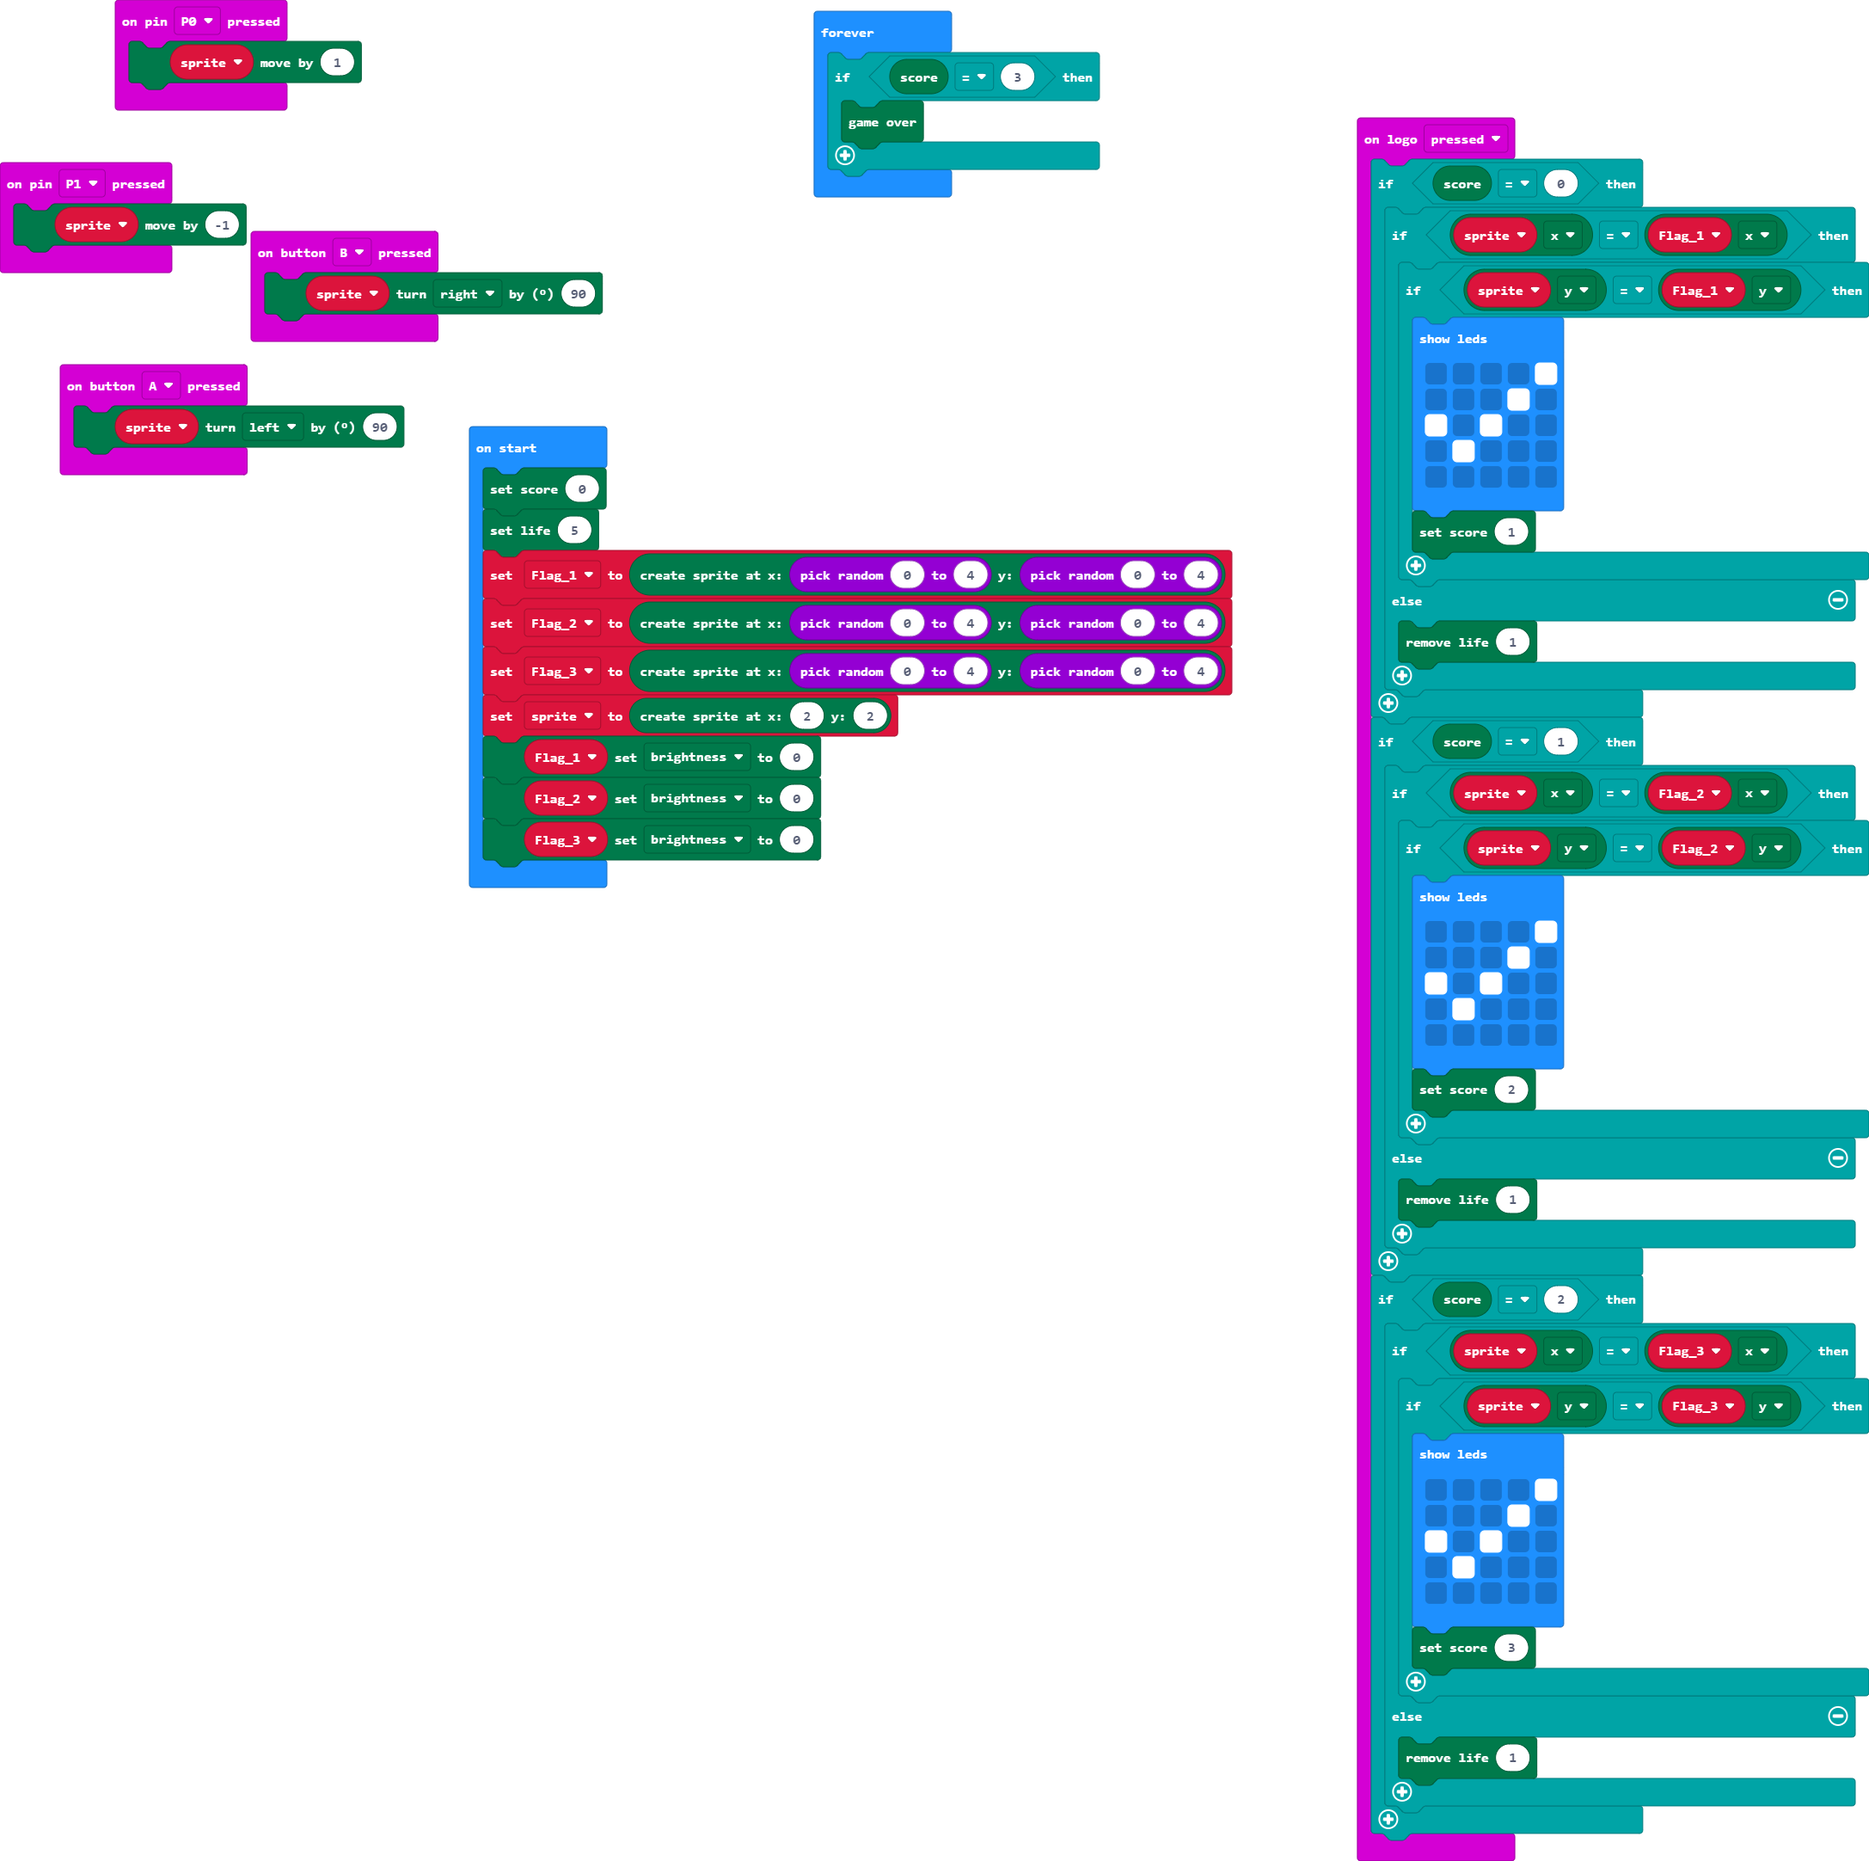
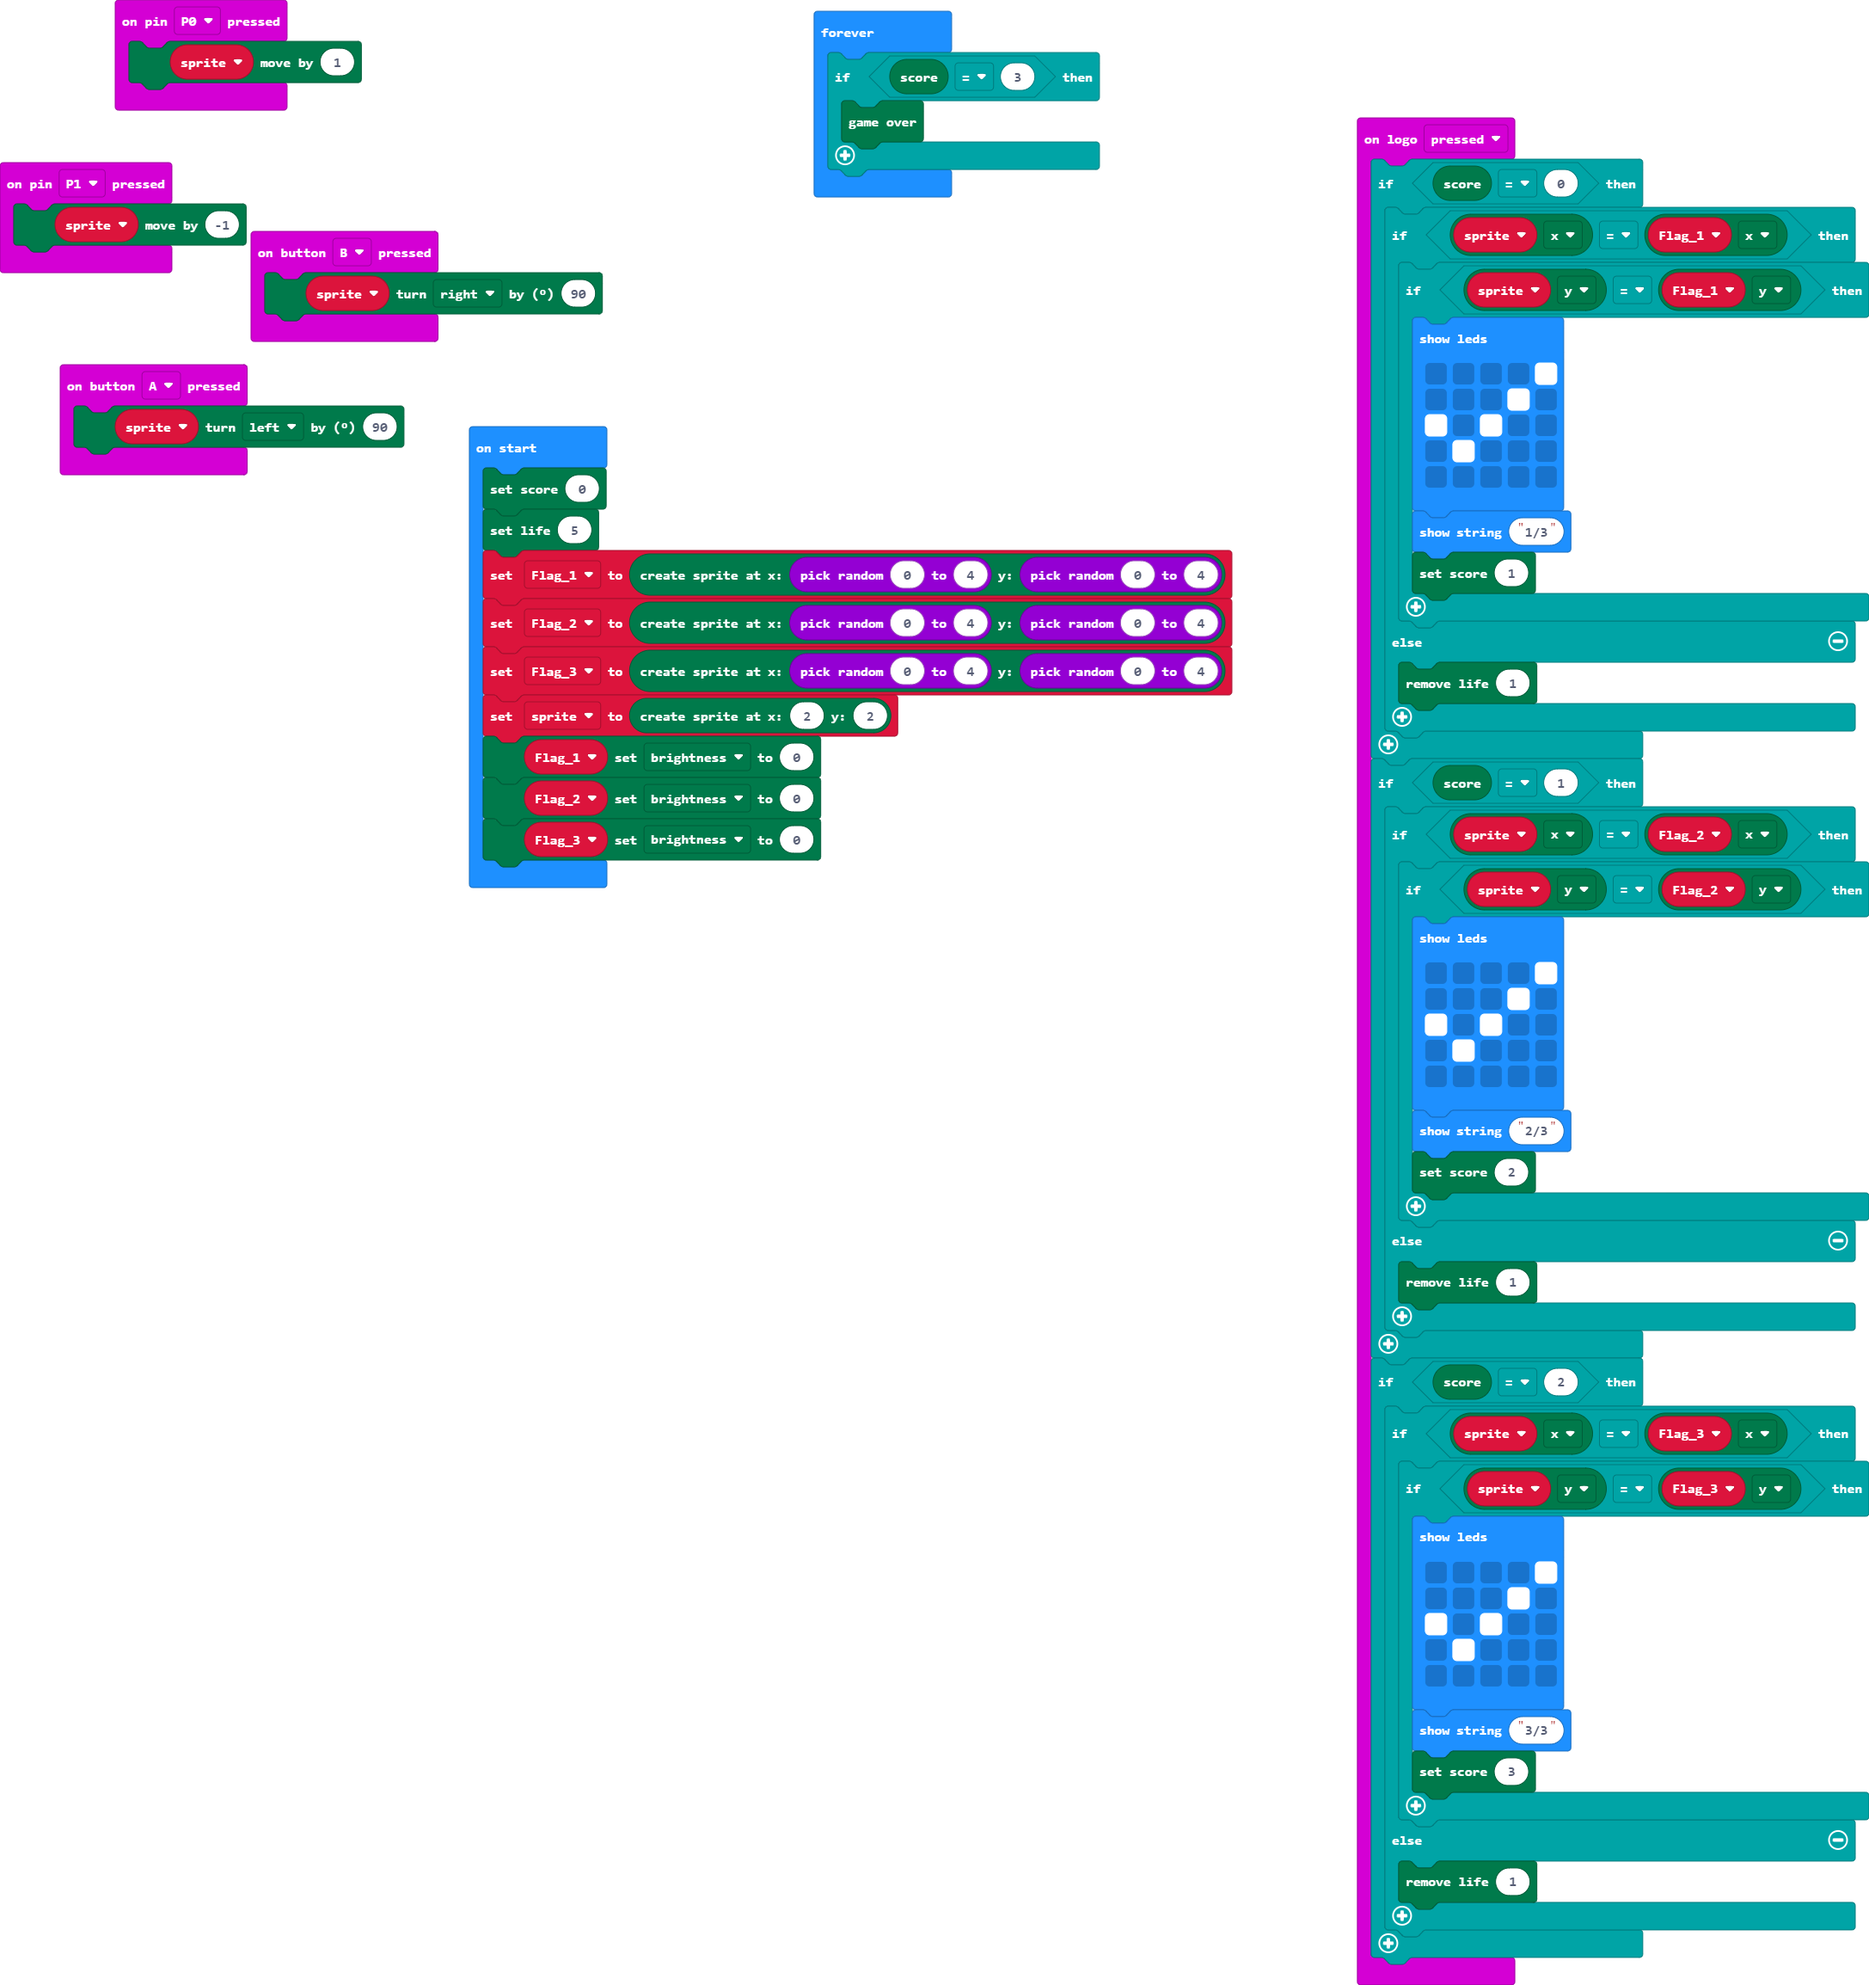
Update main.blocks, main.ts

diff --git a/main.ts b/main.ts
@@ -21,6 +21,7 @@ input.onLogoEvent(TouchButtonEvent.Pressed, function () {
                     . # . . .
                     . . . . .
                     `)
+                basic.showString("1/3")
                 game.setScore(1)
             }
         } else {
@@ -37,6 +38,7 @@ input.onLogoEvent(TouchButtonEvent.Pressed, function () {
                     . # . . .
                     . . . . .
                     `)
+                basic.showString("2/3")
                 game.setScore(2)
             }
         } else {
@@ -53,6 +55,7 @@ input.onLogoEvent(TouchButtonEvent.Pressed, function () {
                     . # . . .
                     . . . . .
                     `)
+                basic.showString("3/3")
                 game.setScore(3)
             }
         } else {
